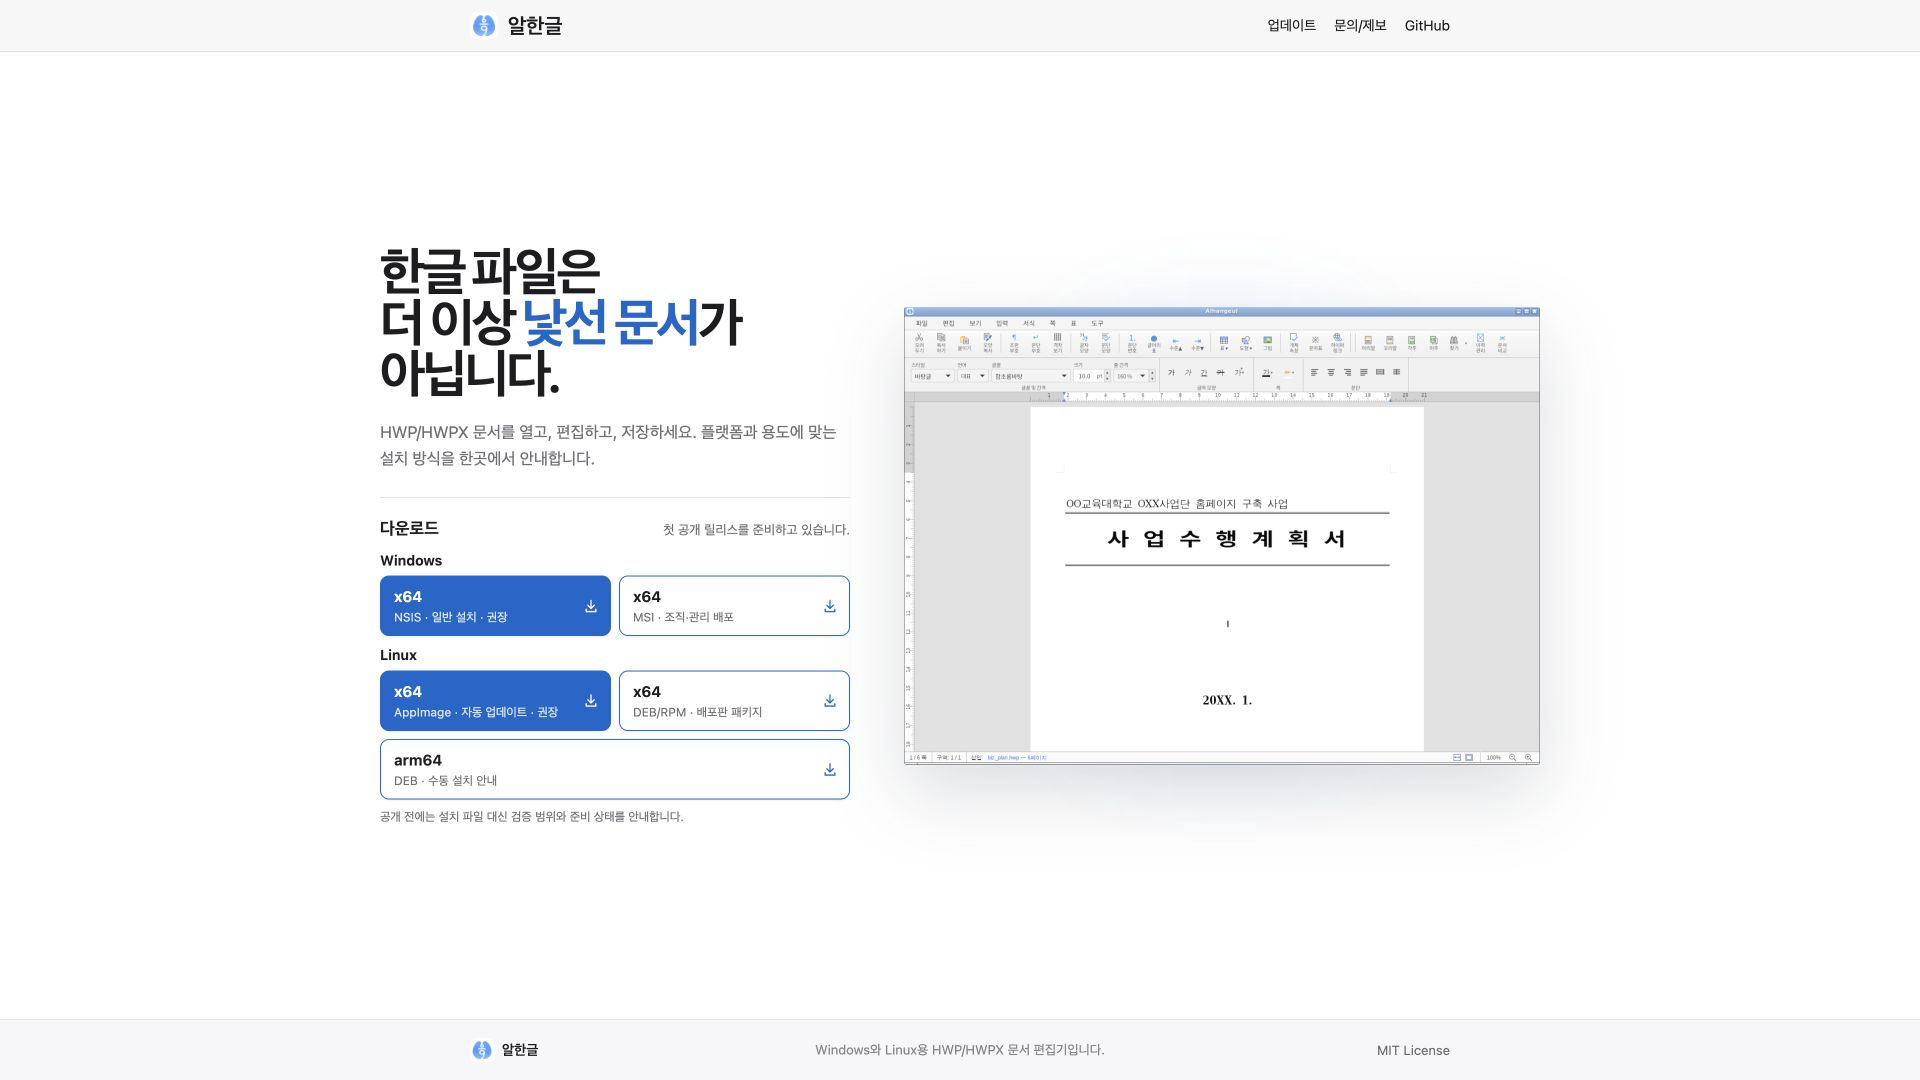
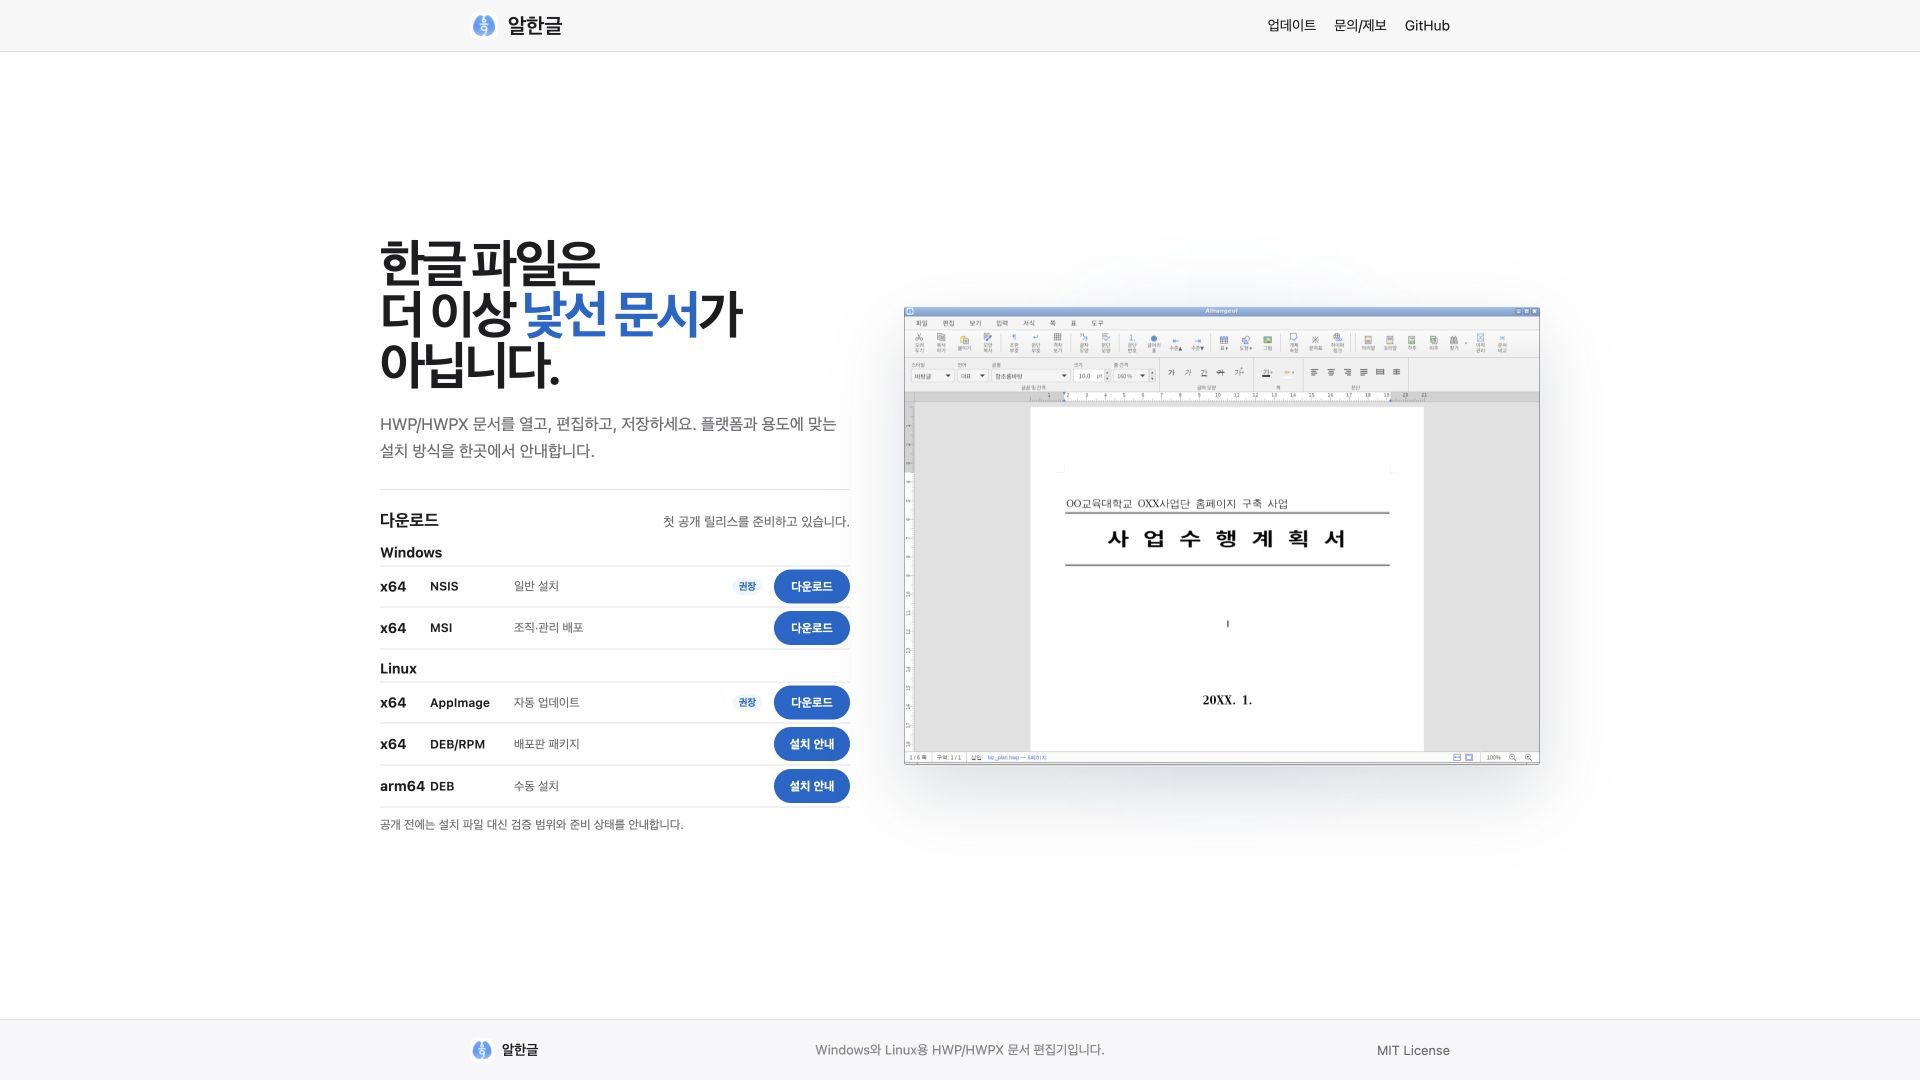
Task #45 [Stage 3.13]: 한 줄 다운로드 목록과 버튼 정렬

Changed region(s): [[0.1875, 0.4583, 0.4688, 0.7639], [0.1875, 0.2139, 0.4375, 0.4278]]

diff --git a/site/styles.css b/site/styles.css
@@ -46,21 +46,19 @@ button { font: inherit; }
 .install-heading h2 { margin: 0; font-size: 17px; font-weight: 650; line-height: 1.3; }
 .install-heading p { margin: 0; color: var(--muted); font-size: 13px; line-height: 1.4; }
 .install-grid { display: grid; gap: 10px; margin-top: 12px; }
-.install-platform-group { display: grid; gap: 6px; }
+.install-platform-group { display: grid; gap: 4px; }
 .install-platform-group h3 { margin: 0; font-size: 14px; font-weight: 650; line-height: 1.3; }
-.install-platform-options { display: grid; grid-template-columns: repeat(2, minmax(0, 1fr)); gap: 8px; }
-.install-link { position: relative; display: flex; min-height: 58px; flex-direction: column; justify-content: center; gap: 3px; padding: 10px 36px 10px 13px; border: 1px solid var(--blue); border-radius: 9px; background: var(--paper); color: var(--ink); box-shadow: 0 1px 3px rgba(0, 72, 145, 0.08); text-decoration: none; transition: border-color var(--quick) var(--ease), background var(--quick) var(--ease), box-shadow var(--quick) var(--ease), transform 120ms var(--ease); }
-.install-link:hover { border-color: var(--blue-dark); background: var(--blue-soft); box-shadow: 0 4px 10px rgba(0, 72, 145, 0.14); transform: translateY(-1px); }
-.install-link:focus-visible { outline-color: var(--blue); box-shadow: 0 0 0 4px rgba(0, 102, 204, 0.18); }
-.install-link.accent { background: var(--blue); color: white; }
-.install-link.accent:hover { background: var(--blue-dark); }
-.install-link.wide { grid-column: 1 / -1; }
-.install-link strong { font-size: 15px; font-weight: 650; line-height: 1.3; }
-.install-link span { color: var(--muted); font-size: 12px; line-height: 1.35; }
-.install-link.accent span { color: rgba(255, 255, 255, 0.86); }
-.install-link-icon { position: absolute; top: 50%; right: 11px; width: 16px; height: 16px; color: var(--blue); transform: translateY(-50%); }
-.install-link.accent .install-link-icon { color: white; }
-.install-link-icon path { fill: none; stroke: currentcolor; stroke-width: 1.7; stroke-linecap: round; stroke-linejoin: round; }
+.install-platform-options { display: grid; }
+.install-row { display: grid; min-height: 42px; grid-template-columns: minmax(0, 1fr) auto; align-items: center; gap: 12px; padding: 3px 0; border-bottom: 1px solid var(--line); }
+.install-row:first-child { border-top: 1px solid var(--line); }
+.install-row-details { display: grid; min-width: 0; grid-template-columns: 44px 78px minmax(0, 1fr) auto; align-items: center; gap: 6px; }
+.install-row-details strong { font-size: 14px; font-weight: 650; line-height: 1.3; }
+.install-format { font-size: 12px; font-weight: 600; line-height: 1.3; }
+.install-purpose { overflow: hidden; color: var(--muted); font-size: 12px; line-height: 1.3; text-overflow: ellipsis; white-space: nowrap; }
+.install-badge { padding: 2px 6px; border-radius: 999px; background: var(--blue-soft); color: var(--blue); font-size: 10px; font-weight: 650; line-height: 1.3; white-space: nowrap; }
+.install-action { display: inline-flex; min-width: 76px; min-height: 34px; align-items: center; justify-content: center; padding: 0 14px; border-radius: 999px; background: var(--blue); color: white; font-size: 12px; font-weight: 650; line-height: 1; white-space: nowrap; text-decoration: none; transition: background var(--quick) var(--ease), box-shadow var(--quick) var(--ease), transform 120ms var(--ease); }
+.install-action:hover { background: var(--blue-dark); box-shadow: 0 4px 10px rgba(0, 72, 145, 0.16); transform: translateY(-1px); }
+.install-action:focus-visible { outline-color: var(--blue); box-shadow: 0 0 0 4px rgba(0, 102, 204, 0.18); }
 .install-note { margin: 9px 0 0; color: var(--muted); font-size: 12px; line-height: 1.4; }
 .home-product { position: relative; display: flex; min-width: 0; height: min(650px, 76vh); align-items: center; justify-content: center; margin: 0; }
 .product-glow { position: absolute; inset: 8% 0; border-radius: 50%; background: radial-gradient(circle, rgba(0, 102, 204, 0.18), transparent 68%); filter: blur(28px); }
@@ -133,7 +131,7 @@ a.download-option:hover { background: var(--blue-soft); }
     .install-panel { margin-top: 18px; padding-top: 15px; }
     .install-heading { display: block; }
     .install-heading p { margin-top: 5px; }
-    .install-link { min-height: 50px; }
+    .install-row { min-height: 40px; }
     .home-product { display: none; }
     .updates-hero > p { font-size: 18px; line-height: 1.5; }
     .updates-actions { justify-content: center; }
@@ -164,12 +162,18 @@ a.download-option:hover { background: var(--blue-soft); }
     .home-summary { margin-top: 14px; line-height: 1.5; }
     .install-panel { margin-top: 16px; padding-top: 14px; }
     .install-grid { gap: 6px; margin-top: 8px; }
-    .install-link { min-height: 48px; padding-block: 7px; }
+    .install-row { min-height: 36px; }
+    .install-action { min-height: 30px; }
     .install-note { margin-top: 6px; }
     .home-product { height: min(480px, 62vh); }
 }
 @media (max-height: 699px) { .home-page { height: auto; min-height: 648px; overflow: auto; } .home-main { flex: 0 0 auto; min-height: 648px; } }
-@media (max-width: 420px) { .install-grid { gap: 6px; } .install-link { padding: 8px 34px 8px 10px; } }
+@media (max-width: 420px) {
+    .install-grid { gap: 6px; }
+    .install-row { gap: 8px; }
+    .install-row-details { grid-template-columns: 48px 64px minmax(0, 1fr) auto; gap: 4px; }
+    .install-action { min-width: 72px; padding-inline: 11px; }
+}
 @media (max-width: 340px) {
     .updates-actions { flex-direction: column; align-items: center; }
     .download-picker { width: 100%; }

diff --git a/site/index.html b/site/index.html
@@ -16,7 +16,7 @@
         <meta name="twitter:card" content="summary_large_image" />
         <link rel="canonical" href="https://postmelee.github.io/alhangeul-tauri/" />
         <link rel="icon" href="../assets/logo/favicon.ico" />
-        <link rel="stylesheet" href="styles.css?v=45-3-12" />
+        <link rel="stylesheet" href="styles.css?v=45-3-13" />
         <script src="script.js" defer></script>
     </head>
     <body class="home-page" data-site-root="./">
@@ -54,16 +54,31 @@
                             <section class="install-platform-group" aria-labelledby="windows-download-title">
                                 <h3 id="windows-download-title">Windows</h3>
                                 <div class="install-platform-options">
-                                    <a class="install-link accent" href="updates/#latest-download" data-download-target="windows-x86_64-nsis"><strong>x64</strong><span>NSIS · 일반 설치 · 권장</span><svg class="install-link-icon" viewBox="0 0 20 20" width="16" height="16" aria-hidden="true"><path d="M4 14v3h12v-3M10 3v10m-4-4 4 4 4-4"></path></svg></a>
-                                    <a class="install-link" href="updates/#latest-download" data-download-target="windows-x86_64-msi"><strong>x64</strong><span>MSI · 조직·관리 배포</span><svg class="install-link-icon" viewBox="0 0 20 20" width="16" height="16" aria-hidden="true"><path d="M4 14v3h12v-3M10 3v10m-4-4 4 4 4-4"></path></svg></a>
+                                    <div class="install-row">
+                                        <div class="install-row-details"><strong>x64</strong><span class="install-format">NSIS</span><span class="install-purpose">일반 설치</span><span class="install-badge">권장</span></div>
+                                        <a class="install-action" href="updates/#latest-download" data-download-target="windows-x86_64-nsis">다운로드</a>
+                                    </div>
+                                    <div class="install-row">
+                                        <div class="install-row-details"><strong>x64</strong><span class="install-format">MSI</span><span class="install-purpose">조직·관리 배포</span></div>
+                                        <a class="install-action" href="updates/#latest-download" data-download-target="windows-x86_64-msi">다운로드</a>
+                                    </div>
                                 </div>
                             </section>
                             <section class="install-platform-group" aria-labelledby="linux-download-title">
                                 <h3 id="linux-download-title">Linux</h3>
                                 <div class="install-platform-options">
-                                    <a class="install-link accent" href="updates/#latest-download" data-download-target="linux-x86_64-appimage"><strong>x64</strong><span>AppImage · 자동 업데이트 · 권장</span><svg class="install-link-icon" viewBox="0 0 20 20" width="16" height="16" aria-hidden="true"><path d="M4 14v3h12v-3M10 3v10m-4-4 4 4 4-4"></path></svg></a>
-                                    <a class="install-link" href="updates/#latest-download"><strong>x64</strong><span>DEB/RPM · 배포판 패키지</span><svg class="install-link-icon" viewBox="0 0 20 20" width="16" height="16" aria-hidden="true"><path d="M4 14v3h12v-3M10 3v10m-4-4 4 4 4-4"></path></svg></a>
-                                    <a class="install-link wide" href="updates/#latest-download"><strong>arm64</strong><span>DEB · 수동 설치 안내</span><svg class="install-link-icon" viewBox="0 0 20 20" width="16" height="16" aria-hidden="true"><path d="M4 14v3h12v-3M10 3v10m-4-4 4 4 4-4"></path></svg></a>
+                                    <div class="install-row">
+                                        <div class="install-row-details"><strong>x64</strong><span class="install-format">AppImage</span><span class="install-purpose">자동 업데이트</span><span class="install-badge">권장</span></div>
+                                        <a class="install-action" href="updates/#latest-download" data-download-target="linux-x86_64-appimage">다운로드</a>
+                                    </div>
+                                    <div class="install-row">
+                                        <div class="install-row-details"><strong>x64</strong><span class="install-format">DEB/RPM</span><span class="install-purpose">배포판 패키지</span></div>
+                                        <a class="install-action" href="updates/#latest-download">설치 안내</a>
+                                    </div>
+                                    <div class="install-row">
+                                        <div class="install-row-details"><strong>arm64</strong><span class="install-format">DEB</span><span class="install-purpose">수동 설치</span></div>
+                                        <a class="install-action" href="updates/#latest-download">설치 안내</a>
+                                    </div>
                                 </div>
                             </section>
                         </div>

diff --git a/site/feedback/index.html b/site/feedback/index.html
@@ -10,7 +10,7 @@
         <meta property="og:image" content="https://postmelee.github.io/alhangeul-tauri/assets/og-main.png" />
         <link rel="canonical" href="https://postmelee.github.io/alhangeul-tauri/feedback/" />
         <link rel="icon" href="../../assets/logo/favicon.ico" />
-        <link rel="stylesheet" href="../styles.css?v=45-3-12" />
+        <link rel="stylesheet" href="../styles.css?v=45-3-13" />
         <script src="../script.js" defer></script>
     </head>
     <body data-site-root="../">

diff --git a/site/updates/index.html b/site/updates/index.html
@@ -10,7 +10,7 @@
         <meta property="og:image" content="https://postmelee.github.io/alhangeul-tauri/assets/og-main.png" />
         <link rel="canonical" href="https://postmelee.github.io/alhangeul-tauri/updates/" />
         <link rel="icon" href="../../assets/logo/favicon.ico" />
-        <link rel="stylesheet" href="../styles.css?v=45-3-12" />
+        <link rel="stylesheet" href="../styles.css?v=45-3-13" />
         <script src="../script.js" defer></script>
     </head>
     <body data-site-root="../">

diff --git a/mydocs/orders/20260828.md b/mydocs/orders/20260828.md
@@ -4,5 +4,5 @@
 
 | Issue | 타스크 | 상태 | 비고 |
 |------|--------|------|------|
-| #45 | Windows/Linux 릴리스·업데이트용 GitHub Pages 재구성 | 진행중 | Stage 3.12 주·보조 다운로드 버튼 위계 보정 완료: 15:26, Stage 4 승인 대기 |
+| #45 | Windows/Linux 릴리스·업데이트용 GitHub Pages 재구성 | 진행중 | Stage 3.13 한 줄 다운로드 목록·우측 버튼 보정 완료: 15:36, Stage 4 승인 대기 |
 | #16 | MSI·NSIS·AppImage updater 도입 | 예정 | #45 URL 계약 확정 뒤 task-start 승인 대기 |
